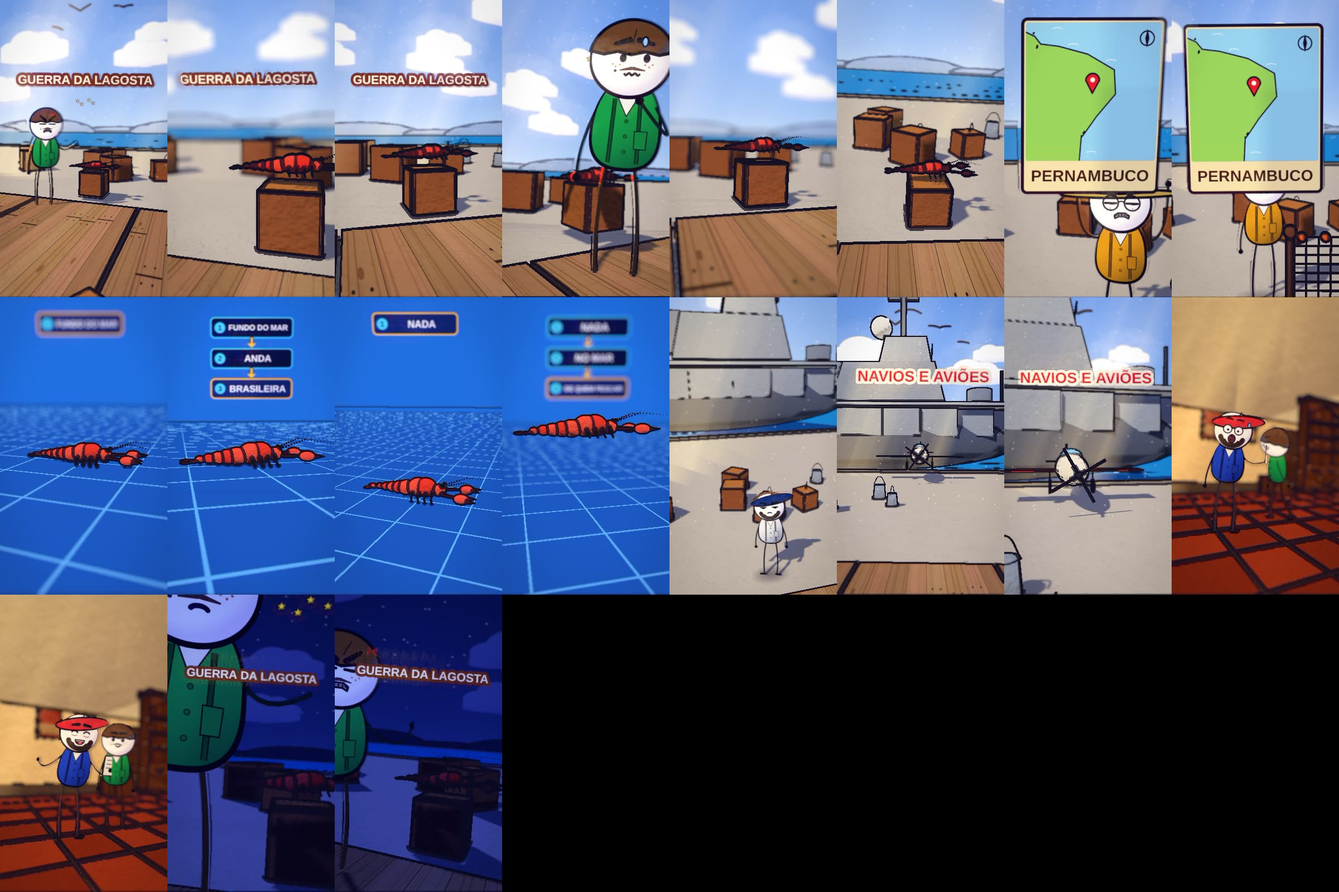
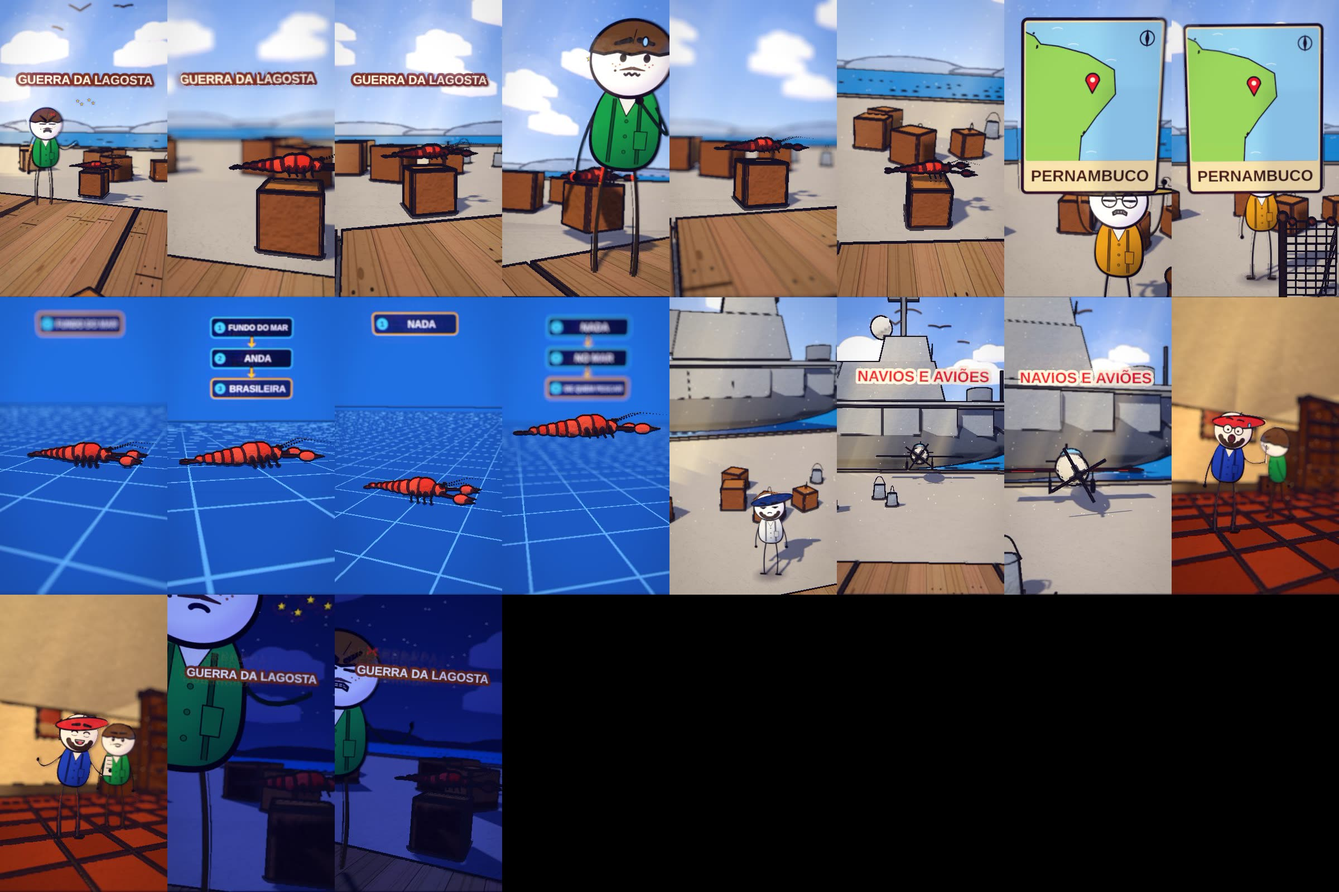
progresso da fila
Claude-Session: https://claude.ai/code/session_01HE8Dy3UcXXZZMLa7uzjNJD

Changed region(s): [[0.7812, 0.1839, 1.0, 0.3371]]

diff --git a/ferramenta-shorts/stories/lagosta1961/spec.js b/ferramenta-shorts/stories/lagosta1961/spec.js
@@ -17,7 +17,7 @@ const SPEC = {
   shots: [
     S('b0', A[0], Math.round(A[0] + (A[1] - 1 + 1 - (A[0])) * 0.36) - 1, X, "day", { h: 1.6, d0: 6.5, d1: 5.5, az0: -6, az1: 8, cx: 0.5, cz: -0.3, hero: { hero: 'any', frame: 'medium', minH: 0.07, main: 1 }, nocut: true, actors: [pp(X, "BRA", 0, 0.0, 1.3, "angry", { pose: 'argue' })], props: [{ asset: "crate", at: [X + 1.0, -0.4], s: 1.0, fixo: true }, { asset: "kit/lobster", at: [X + 1.0, -0.4], s: 0.58, fixo: true, y: DK + 0.95, drop: false }], fx: [{ k: 'stars', a: A[0] + 6, b: A[0] + 40, at: [X + 1.0, DK + 1.6, 0.1], s: 0.8 }, { k: 'birds', a: A[0], b: A[1] - 1, at: [X, DK + 4.5, -30], n: 4, dir: 1, off: 8 }, txt(X, WS(0, -2), A[1] - 1, "GUERRA DA LAGOSTA", '#fff6e0', '#7a3a1c', 4.5, { s: 1.5, up: 0.46 })] }), { ...S('b0_d', Math.round(A[0] + (A[1] - 1 + 1 - (A[0])) * 0.36), Math.round(A[0] + (A[1] - 1 + 1 - (A[0])) * 0.6) - 1, X, "day", { h: 1.6, d0: 6.5, d1: 5.5, az0: -6, az1: 8, cx: 0.5, cz: -0.3, hero: { hero: 'none', detalhe: true }, nocut: true, actors: [pp(X, "BRA", 0, 0.0, 1.3, "angry", { pose: 'stand' })], props: [{ asset: "crate", at: [X + 1.0, -0.4], s: 1.0, drop: false, fixo: true }, { asset: "kit/lobster", at: [X + 1.0, -0.4], s: 0.58, drop: false, fixo: true, y: DK + 0.95, drop: false }], fx: [{ k: 'stars', a: A[0] + 6, b: A[0] + 40, at: [X + 1.0, DK + 1.6, 0.1], s: 0.8 }, { k: 'birds', a: A[0], b: A[1] - 1, at: [X, DK + 4.5, -30], n: 4, dir: 1, off: 8 }, txt(X, WS(0, -2), A[1] - 1, "GUERRA DA LAGOSTA", '#fff6e0', '#7a3a1c', 4.5, { s: 1.5, up: 0.46 })] }), cam: [{ f: Math.round(A[0] + (A[1] - 1 + 1 - (A[0])) * 0.36), at: [X + 1.0, DK + 0.282, -0.4], d: 9.01, az: -14, el: 7, fov: 44 }, { f: Math.round(A[0] + (A[1] - 1 + 1 - (A[0])) * 0.6) - 1, at: [X + 1.0, DK + 0.282, -0.4], d: 8.0, az: -8, el: 6, fov: 44 }], nocut: true, vary: false, glide: true, glideN: 34 }, { ...S('b0_v', Math.round(A[0] + (A[1] - 1 + 1 - (A[0])) * 0.6), A[1] - 1, X, "day", { h: 1.6, d0: 6.5, d1: 5.5, az0: -6, az1: 8, cx: 0.5, cz: -0.3, hero: { hero: 'any', frame: 'medium', minH: 0.07, main: 1 }, nocut: true, actors: [pp(X, "BRA", 0, 0.0, 1.3, "angry", { pose: 'argue' })], props: [{ asset: "crate", at: [X + 1.0, -0.4], s: 1.0, drop: false, fixo: true }, { asset: "kit/lobster", at: [X + 1.0, -0.4], s: 0.58, drop: false, fixo: true, y: DK + 0.95, drop: false }], fx: [{ k: 'stars', a: A[0] + 6, b: A[0] + 40, at: [X + 1.0, DK + 1.6, 0.1], s: 0.8 }, { k: 'birds', a: A[0], b: A[1] - 1, at: [X, DK + 4.5, -30], n: 4, dir: 1, off: 8 }, txt(X, WS(0, -2), A[1] - 1, "GUERRA DA LAGOSTA", '#fff6e0', '#7a3a1c', 4.5, { s: 1.5, up: 0.46 })] }), glide: true, glideN: 34 },
     S('b1', A[1], Math.round(A[1] + (A[2] - 1 + 1 - (A[1])) * 0.36) - 1, X, "day", { h: 1.6, d0: 6.5, d1: 5.5, az0: -26, az1: -12, cx: 0.5, cz: -0.3, hero: { hero: 'any', frame: 'medium', minH: 0.07, main: 1 }, trans: 'cut', glide: true, glideN: 26, nocut: true, actors: [pp(X, "BRA", 0, 0.0, 1.3, "nervous", { pose: 'react' })], props: [{ asset: "crate", at: [X + 1.0, -0.4], s: 1.0, fixo: true }, { asset: "kit/lobster", at: [X + 1.0, -0.4], s: 0.58, fixo: true, y: DK + 0.95, drop: false }], fx: [{ k: 'stars', a: A[1] + 6, b: A[1] + 40, at: [X + 1.0, DK + 1.6, 0.1], s: 0.8 }] }), { ...S('b1_d', Math.round(A[1] + (A[2] - 1 + 1 - (A[1])) * 0.36), Math.round(A[1] + (A[2] - 1 + 1 - (A[1])) * 0.6) - 1, X, "day", { h: 1.6, d0: 6.5, d1: 5.5, az0: -26, az1: -12, cx: 0.5, cz: -0.3, hero: { hero: 'none', detalhe: true }, trans: 'cut', glide: true, glideN: 26, nocut: true, actors: [pp(X, "BRA", 0, 0.0, 1.3, "nervous", { pose: 'react' })], props: [{ asset: "crate", at: [X + 1.0, -0.4], s: 1.0, drop: false, fixo: true }, { asset: "kit/lobster", at: [X + 1.0, -0.4], s: 0.58, drop: false, fixo: true, y: DK + 0.95, drop: false }], fx: [{ k: 'stars', a: A[1] + 6, b: A[1] + 40, at: [X + 1.0, DK + 1.6, 0.1], s: 0.8 }] }), cam: [{ f: Math.round(A[1] + (A[2] - 1 + 1 - (A[1])) * 0.36), at: [X + 1.0, DK + 0.282, -0.4], d: 9.01, az: -14, el: 7, fov: 44 }, { f: Math.round(A[1] + (A[2] - 1 + 1 - (A[1])) * 0.6) - 1, at: [X + 1.0, DK + 0.282, -0.4], d: 8.0, az: -8, el: 6, fov: 44 }], nocut: true, vary: false, glide: true, glideN: 34 }, { ...S('b1_v', Math.round(A[1] + (A[2] - 1 + 1 - (A[1])) * 0.6), A[2] - 1, X, "day", { h: 1.6, d0: 6.5, d1: 5.5, az0: -26, az1: -12, cx: 0.5, cz: -0.3, hero: { hero: 'any', frame: 'medium', minH: 0.07, main: 1 }, trans: 'cut', glide: true, glideN: 26, nocut: true, actors: [pp(X, "BRA", 0, 0.0, 1.3, "nervous", { pose: 'react' })], props: [{ asset: "crate", at: [X + 1.0, -0.4], s: 1.0, drop: false, fixo: true }, { asset: "kit/lobster", at: [X + 1.0, -0.4], s: 0.58, drop: false, fixo: true, y: DK + 0.95, drop: false }], fx: [{ k: 'stars', a: A[1] + 6, b: A[1] + 40, at: [X + 1.0, DK + 1.6, 0.1], s: 0.8 }] }), glide: true, glideN: 34 },
-    { ...S('b2', A[2], A[3] - 1, X, "day", { h: 2.8, d0: 14.8, d1: 11.8, el: 5, fov: 46, cx: 0.0, cz: -5.6, hero: { hero: 'none', wide: true }, vary: false, nocut: true, trans: 'cut', actors: [pp(X, "PES", 0, 0.0, -0.4, "stern")], props: [{ asset: "boat", at: [X + 0.0, -27.0], s: 2.4, fixo: true }, { asset: "kit/fishing_net", at: [X + 1.8, 0.8], s: 1.2, drop: false }], fx: [{ k: 'map', a: WS(24, -2), b: Math.min(A[3] - 1, WS(24, -2) + 54), text: "PERNAMBUCO", geo: {"polys": [[7097, 522, 7096, 522, 7096, 521, -4214, 520, -4212, 518, -4210, 518, -4211, 520, -4211, 520, -4214, 522, 7097, 522], [-659, -42, -613, -29, -570, -64, -570, -85, -586, -135, -533, -118, -476, -147, -454, -169, -441, -146, -439, -117, -433, -62, -400, -44, -380, -54, -348, -64, -320, -75, -290, -84, -264, -72, -233, -76, -203, -100, -178, -140, -144, -62, -160, -8, -202, 46, -151, 49, -117, 79, -79, 35, -50, 20, -14, 29, 33, 50, 45, 65, 56, 78, 122, 86, 233, 115, 335, 173, 343, 263, 273, 348, 232, 408, 216, 430, 209, 546, 172, 650, 122, 722, 79, 727, 40, 737, -64, 790, -82, 807, -85, 856, -149, 978, -169, 996, -159, 961, -176, 980, -216, 1053, -235, 1031, -287, 990, -316, 983, -368, 955, -318, 902, -294, 882, -263, 866, -249, 821, -269, 794, -289, 758, -306, 728, -329, 701, -369, 699, -378, 677, -381, 648, -377, 607, -375, 552, -411, 514, -458, 447, -509, 417, -555, 395, -602, 372, -611, 342, -630, 307, -700, 339, -760, 345, -776, 299, -826, 311, -861, 271, -874, 245, -875, 229, -858, 188, -819, 141, -765, 133, -739, 36, -745, 14, -747, -25, -732, -26, -753, -37, -701, -60, -674, -70], [44, 90, 40, 93, 41, 89, 41, 87, 41, 85, 43, 83, 44, 83, 44, 85, 44, 86, 44, 90], [224, 412, 223, 413, 223, 411, 226, 408, 227, 405, 228, 407, 229, 408, 229, 409, 224, 412], [219, 424, 218, 426, 217, 426, 216, 425, 216, 423, 216, 422, 217, 422, 219, 422, 219, 424], [31, 38, 29, 40, 29, 41, 27, 40, 27, 39, 28, 39, 29, 37, 31, 37, 31, 38]], "hl": [1, 2, 3, 4, 5], "pin": [254.0, 260.0]} }, { k: "puff", a: A[2] + 70, b: A[2] + 96, at: [X + 0.9, DK + 0.12, 1.0], s: 0.75 }] }), nocut: true },
+    { ...S('b2', A[2], A[3] - 1, X, "day", { h: 2.8, d0: 15.0, d1: 13.0, el: 5, fov: 46, cx: 0.0, cz: -5.6, hero: { hero: 'none', wide: true }, vary: false, nocut: true, trans: 'cut', actors: [pp(X, "PES", 0, 0.0, -0.4, "stern")], props: [{ asset: "boat", at: [X + 0.0, -27.0], s: 2.4, fixo: true }, { asset: "kit/fishing_net", at: [X + 1.8, 0.8], s: 1.2, drop: false }], fx: [{ k: 'map', a: WS(24, -2), b: Math.min(A[3] - 1, WS(24, -2) + 54), text: "PERNAMBUCO", geo: {"polys": [[7097, 522, 7096, 522, 7096, 521, -4214, 520, -4212, 518, -4210, 518, -4211, 520, -4211, 520, -4214, 522, 7097, 522], [-659, -42, -613, -29, -570, -64, -570, -85, -586, -135, -533, -118, -476, -147, -454, -169, -441, -146, -439, -117, -433, -62, -400, -44, -380, -54, -348, -64, -320, -75, -290, -84, -264, -72, -233, -76, -203, -100, -178, -140, -144, -62, -160, -8, -202, 46, -151, 49, -117, 79, -79, 35, -50, 20, -14, 29, 33, 50, 45, 65, 56, 78, 122, 86, 233, 115, 335, 173, 343, 263, 273, 348, 232, 408, 216, 430, 209, 546, 172, 650, 122, 722, 79, 727, 40, 737, -64, 790, -82, 807, -85, 856, -149, 978, -169, 996, -159, 961, -176, 980, -216, 1053, -235, 1031, -287, 990, -316, 983, -368, 955, -318, 902, -294, 882, -263, 866, -249, 821, -269, 794, -289, 758, -306, 728, -329, 701, -369, 699, -378, 677, -381, 648, -377, 607, -375, 552, -411, 514, -458, 447, -509, 417, -555, 395, -602, 372, -611, 342, -630, 307, -700, 339, -760, 345, -776, 299, -826, 311, -861, 271, -874, 245, -875, 229, -858, 188, -819, 141, -765, 133, -739, 36, -745, 14, -747, -25, -732, -26, -753, -37, -701, -60, -674, -70], [44, 90, 40, 93, 41, 89, 41, 87, 41, 85, 43, 83, 44, 83, 44, 85, 44, 86, 44, 90], [224, 412, 223, 413, 223, 411, 226, 408, 227, 405, 228, 407, 229, 408, 229, 409, 224, 412], [219, 424, 218, 426, 217, 426, 216, 425, 216, 423, 216, 422, 217, 422, 219, 422, 219, 424], [31, 38, 29, 40, 29, 41, 27, 40, 27, 39, 28, 39, 29, 37, 31, 37, 31, 38]], "hl": [1, 2, 3, 4, 5], "pin": [254.0, 260.0]} }, { k: "puff", a: A[2] + 70, b: A[2] + 96, at: [X + 0.9, DK + 0.12, 1.0], s: 0.75 }] }), nocut: true },
     { ...S('b3', A[3], Math.round(A[3] + (A[4] - 1 + 1 - (A[3])) * 0.5) - 1, X_loc_estudio, "explica", { actors: [], props: [{ asset: "kit/lobster", at: [X_loc_estudio, -2.0], s: 1.47, y: (f) => DK, ry: 0.0, drop: false }], fx: [{ k: 'passos', a: (A[3]) + 8, b: A[4] - 1, itens: ["FUNDO DO MAR", "ANDA", "BRASILEIRA"], up: 0.58 }], hero: { hero: 'none', explica: true }, trans: 'dissolve' }), cam: [{ f: A[3], at: [X_loc_estudio + 0.0, DK + 0.615, -2.0], d: 14.2, az: 26, el: 10, fov: 44 }, { f: Math.round(A[3] + (A[4] - 1 + 1 - (A[3])) * 0.5) - 1, at: [X_loc_estudio + 0.0, DK + 0.615, -2.0], d: 12.78, az: 12, el: 8, fov: 44 }], nocut: true, vary: false, creep: 0 }, { ...S('b3_x', Math.round(A[3] + (A[4] - 1 + 1 - (A[3])) * 0.5), A[4] - 1, X_loc_estudio, "explica", { actors: [], props: [{ asset: "kit/lobster", at: [X_loc_estudio, -2.0], s: 1.47, y: (f) => DK, ry: 0.0, drop: false }], fx: [{ k: 'passos', a: (A[3]) + 8, b: A[4] - 1, itens: ["FUNDO DO MAR", "ANDA", "BRASILEIRA"], up: 0.58 }], hero: { hero: 'none', explica: true }, trans: 'cut' }), cam: [{ f: Math.round(A[3] + (A[4] - 1 + 1 - (A[3])) * 0.5), at: [X_loc_estudio + 0.0, DK + 0.615, -2.0], d: 12.5, az: -20, el: 6, fov: 44 }, { f: A[4] - 1, at: [X_loc_estudio + 0.0, DK + 0.615, -2.0], d: 11.36, az: -6, el: 5, fov: 44 }], nocut: true, vary: false, glide: true, glideN: 22, creep: 0 },
     { ...S('b4', A[4], Math.round(A[4] + (A[5] - 1 + 1 - (A[4])) * 0.5) - 1, X_loc_estudio, "explica", { actors: [], props: [{ asset: "kit/lobster", at: [X_loc_estudio, -2.0], s: 1.47, y: (f) => DK + 2.4 * Math.pow(Math.min(1, Math.max(0, (f - ((A[4]) + 14)) / 40)), 1.5) + (f > ((A[4]) + 14) + 40 ? 0.1 * Math.sin((f - ((A[4]) + 14)) / 9) : 0), ry: 0.0, drop: false }], fx: [{ k: 'passos', a: (A[4]) + 8, b: A[5] - 1, itens: ["NADA", "NO MAR", "DE QUEM PESCAR"], up: 0.58 }], hero: { hero: 'none', explica: true }, trans: 'dissolve' }), cam: [{ f: A[4], at: [X_loc_estudio + 0.0, DK + 2.115, -2.0], d: 14.2, az: 26, el: 10, fov: 44 }, { f: Math.round(A[4] + (A[5] - 1 + 1 - (A[4])) * 0.5) - 1, at: [X_loc_estudio + 0.0, DK + 2.115, -2.0], d: 12.78, az: 12, el: 8, fov: 44 }], nocut: true, vary: false, creep: 0 }, { ...S('b4_x', Math.round(A[4] + (A[5] - 1 + 1 - (A[4])) * 0.5), A[5] - 1, X_loc_estudio, "explica", { actors: [], props: [{ asset: "kit/lobster", at: [X_loc_estudio, -2.0], s: 1.47, y: (f) => DK + 2.4 * Math.pow(Math.min(1, Math.max(0, (f - ((A[4]) + 14)) / 40)), 1.5) + (f > ((A[4]) + 14) + 40 ? 0.1 * Math.sin((f - ((A[4]) + 14)) / 9) : 0), ry: 0.0, drop: false }], fx: [{ k: 'passos', a: (A[4]) + 8, b: A[5] - 1, itens: ["NADA", "NO MAR", "DE QUEM PESCAR"], up: 0.58 }], hero: { hero: 'none', explica: true }, trans: 'cut' }), cam: [{ f: Math.round(A[4] + (A[5] - 1 + 1 - (A[4])) * 0.5), at: [X_loc_estudio + 0.0, DK + 2.115, -2.0], d: 12.5, az: -20, el: 6, fov: 44 }, { f: A[5] - 1, at: [X_loc_estudio + 0.0, DK + 2.115, -2.0], d: 11.36, az: -6, el: 5, fov: 44 }], nocut: true, vary: false, glide: true, glideN: 22, creep: 0 },
     { ...S('b5', A[5], A[6] - 1, X, "day", { h: 4.0, d0: 21.0, d1: 20.0, el: 11, fov: 46, az0: -38, az1: 32, cx: 0.0, cz: -2.0, hero: { hero: 'none', wide: true }, vary: false, nocut: true, trans: 'cut', actors: [pp(X, "MFR", 0, 0.0, -0.4, "stern")], props: [{ asset: "kit/navio_destroier", at: [X + 0.0, -27.0], s: 8.27, fixo: true, drop: false }], fx: [{ k: 'birds', a: A[5], b: A[6] - 1, at: [X, DK + 7.5, -30], n: 6, dir: 1, off: 15 }] }), nocut: true },

diff --git a/ferramenta-shorts/web/story.js b/ferramenta-shorts/web/story.js
@@ -38,7 +38,7 @@ const SPEC = {
   shots: [
     S('b0', A[0], Math.round(A[0] + (A[1] - 1 + 1 - (A[0])) * 0.36) - 1, X, "day", { h: 1.6, d0: 6.5, d1: 5.5, az0: -6, az1: 8, cx: 0.5, cz: -0.3, hero: { hero: 'any', frame: 'medium', minH: 0.07, main: 1 }, nocut: true, actors: [pp(X, "BRA", 0, 0.0, 1.3, "angry", { pose: 'argue' })], props: [{ asset: "crate", at: [X + 1.0, -0.4], s: 1.0, fixo: true }, { asset: "kit/lobster", at: [X + 1.0, -0.4], s: 0.58, fixo: true, y: DK + 0.95, drop: false }], fx: [{ k: 'stars', a: A[0] + 6, b: A[0] + 40, at: [X + 1.0, DK + 1.6, 0.1], s: 0.8 }, { k: 'birds', a: A[0], b: A[1] - 1, at: [X, DK + 4.5, -30], n: 4, dir: 1, off: 8 }, txt(X, WS(0, -2), A[1] - 1, "GUERRA DA LAGOSTA", '#fff6e0', '#7a3a1c', 4.5, { s: 1.5, up: 0.46 })] }), { ...S('b0_d', Math.round(A[0] + (A[1] - 1 + 1 - (A[0])) * 0.36), Math.round(A[0] + (A[1] - 1 + 1 - (A[0])) * 0.6) - 1, X, "day", { h: 1.6, d0: 6.5, d1: 5.5, az0: -6, az1: 8, cx: 0.5, cz: -0.3, hero: { hero: 'none', detalhe: true }, nocut: true, actors: [pp(X, "BRA", 0, 0.0, 1.3, "angry", { pose: 'stand' })], props: [{ asset: "crate", at: [X + 1.0, -0.4], s: 1.0, drop: false, fixo: true }, { asset: "kit/lobster", at: [X + 1.0, -0.4], s: 0.58, drop: false, fixo: true, y: DK + 0.95, drop: false }], fx: [{ k: 'stars', a: A[0] + 6, b: A[0] + 40, at: [X + 1.0, DK + 1.6, 0.1], s: 0.8 }, { k: 'birds', a: A[0], b: A[1] - 1, at: [X, DK + 4.5, -30], n: 4, dir: 1, off: 8 }, txt(X, WS(0, -2), A[1] - 1, "GUERRA DA LAGOSTA", '#fff6e0', '#7a3a1c', 4.5, { s: 1.5, up: 0.46 })] }), cam: [{ f: Math.round(A[0] + (A[1] - 1 + 1 - (A[0])) * 0.36), at: [X + 1.0, DK + 0.282, -0.4], d: 9.01, az: -14, el: 7, fov: 44 }, { f: Math.round(A[0] + (A[1] - 1 + 1 - (A[0])) * 0.6) - 1, at: [X + 1.0, DK + 0.282, -0.4], d: 8.0, az: -8, el: 6, fov: 44 }], nocut: true, vary: false, glide: true, glideN: 34 }, { ...S('b0_v', Math.round(A[0] + (A[1] - 1 + 1 - (A[0])) * 0.6), A[1] - 1, X, "day", { h: 1.6, d0: 6.5, d1: 5.5, az0: -6, az1: 8, cx: 0.5, cz: -0.3, hero: { hero: 'any', frame: 'medium', minH: 0.07, main: 1 }, nocut: true, actors: [pp(X, "BRA", 0, 0.0, 1.3, "angry", { pose: 'argue' })], props: [{ asset: "crate", at: [X + 1.0, -0.4], s: 1.0, drop: false, fixo: true }, { asset: "kit/lobster", at: [X + 1.0, -0.4], s: 0.58, drop: false, fixo: true, y: DK + 0.95, drop: false }], fx: [{ k: 'stars', a: A[0] + 6, b: A[0] + 40, at: [X + 1.0, DK + 1.6, 0.1], s: 0.8 }, { k: 'birds', a: A[0], b: A[1] - 1, at: [X, DK + 4.5, -30], n: 4, dir: 1, off: 8 }, txt(X, WS(0, -2), A[1] - 1, "GUERRA DA LAGOSTA", '#fff6e0', '#7a3a1c', 4.5, { s: 1.5, up: 0.46 })] }), glide: true, glideN: 34 },
     S('b1', A[1], Math.round(A[1] + (A[2] - 1 + 1 - (A[1])) * 0.36) - 1, X, "day", { h: 1.6, d0: 6.5, d1: 5.5, az0: -26, az1: -12, cx: 0.5, cz: -0.3, hero: { hero: 'any', frame: 'medium', minH: 0.07, main: 1 }, trans: 'cut', glide: true, glideN: 26, nocut: true, actors: [pp(X, "BRA", 0, 0.0, 1.3, "nervous", { pose: 'react' })], props: [{ asset: "crate", at: [X + 1.0, -0.4], s: 1.0, fixo: true }, { asset: "kit/lobster", at: [X + 1.0, -0.4], s: 0.58, fixo: true, y: DK + 0.95, drop: false }], fx: [{ k: 'stars', a: A[1] + 6, b: A[1] + 40, at: [X + 1.0, DK + 1.6, 0.1], s: 0.8 }] }), { ...S('b1_d', Math.round(A[1] + (A[2] - 1 + 1 - (A[1])) * 0.36), Math.round(A[1] + (A[2] - 1 + 1 - (A[1])) * 0.6) - 1, X, "day", { h: 1.6, d0: 6.5, d1: 5.5, az0: -26, az1: -12, cx: 0.5, cz: -0.3, hero: { hero: 'none', detalhe: true }, trans: 'cut', glide: true, glideN: 26, nocut: true, actors: [pp(X, "BRA", 0, 0.0, 1.3, "nervous", { pose: 'react' })], props: [{ asset: "crate", at: [X + 1.0, -0.4], s: 1.0, drop: false, fixo: true }, { asset: "kit/lobster", at: [X + 1.0, -0.4], s: 0.58, drop: false, fixo: true, y: DK + 0.95, drop: false }], fx: [{ k: 'stars', a: A[1] + 6, b: A[1] + 40, at: [X + 1.0, DK + 1.6, 0.1], s: 0.8 }] }), cam: [{ f: Math.round(A[1] + (A[2] - 1 + 1 - (A[1])) * 0.36), at: [X + 1.0, DK + 0.282, -0.4], d: 9.01, az: -14, el: 7, fov: 44 }, { f: Math.round(A[1] + (A[2] - 1 + 1 - (A[1])) * 0.6) - 1, at: [X + 1.0, DK + 0.282, -0.4], d: 8.0, az: -8, el: 6, fov: 44 }], nocut: true, vary: false, glide: true, glideN: 34 }, { ...S('b1_v', Math.round(A[1] + (A[2] - 1 + 1 - (A[1])) * 0.6), A[2] - 1, X, "day", { h: 1.6, d0: 6.5, d1: 5.5, az0: -26, az1: -12, cx: 0.5, cz: -0.3, hero: { hero: 'any', frame: 'medium', minH: 0.07, main: 1 }, trans: 'cut', glide: true, glideN: 26, nocut: true, actors: [pp(X, "BRA", 0, 0.0, 1.3, "nervous", { pose: 'react' })], props: [{ asset: "crate", at: [X + 1.0, -0.4], s: 1.0, drop: false, fixo: true }, { asset: "kit/lobster", at: [X + 1.0, -0.4], s: 0.58, drop: false, fixo: true, y: DK + 0.95, drop: false }], fx: [{ k: 'stars', a: A[1] + 6, b: A[1] + 40, at: [X + 1.0, DK + 1.6, 0.1], s: 0.8 }] }), glide: true, glideN: 34 },
-    { ...S('b2', A[2], A[3] - 1, X, "day", { h: 2.8, d0: 14.8, d1: 11.8, el: 5, fov: 46, cx: 0.0, cz: -5.6, hero: { hero: 'none', wide: true }, vary: false, nocut: true, trans: 'cut', actors: [pp(X, "PES", 0, 0.0, -0.4, "stern")], props: [{ asset: "boat", at: [X + 0.0, -27.0], s: 2.4, fixo: true }, { asset: "kit/fishing_net", at: [X + 1.8, 0.8], s: 1.2, drop: false }], fx: [{ k: 'map', a: WS(24, -2), b: Math.min(A[3] - 1, WS(24, -2) + 54), text: "PERNAMBUCO", geo: {"polys": [[7097, 522, 7096, 522, 7096, 521, -4214, 520, -4212, 518, -4210, 518, -4211, 520, -4211, 520, -4214, 522, 7097, 522], [-659, -42, -613, -29, -570, -64, -570, -85, -586, -135, -533, -118, -476, -147, -454, -169, -441, -146, -439, -117, -433, -62, -400, -44, -380, -54, -348, -64, -320, -75, -290, -84, -264, -72, -233, -76, -203, -100, -178, -140, -144, -62, -160, -8, -202, 46, -151, 49, -117, 79, -79, 35, -50, 20, -14, 29, 33, 50, 45, 65, 56, 78, 122, 86, 233, 115, 335, 173, 343, 263, 273, 348, 232, 408, 216, 430, 209, 546, 172, 650, 122, 722, 79, 727, 40, 737, -64, 790, -82, 807, -85, 856, -149, 978, -169, 996, -159, 961, -176, 980, -216, 1053, -235, 1031, -287, 990, -316, 983, -368, 955, -318, 902, -294, 882, -263, 866, -249, 821, -269, 794, -289, 758, -306, 728, -329, 701, -369, 699, -378, 677, -381, 648, -377, 607, -375, 552, -411, 514, -458, 447, -509, 417, -555, 395, -602, 372, -611, 342, -630, 307, -700, 339, -760, 345, -776, 299, -826, 311, -861, 271, -874, 245, -875, 229, -858, 188, -819, 141, -765, 133, -739, 36, -745, 14, -747, -25, -732, -26, -753, -37, -701, -60, -674, -70], [44, 90, 40, 93, 41, 89, 41, 87, 41, 85, 43, 83, 44, 83, 44, 85, 44, 86, 44, 90], [224, 412, 223, 413, 223, 411, 226, 408, 227, 405, 228, 407, 229, 408, 229, 409, 224, 412], [219, 424, 218, 426, 217, 426, 216, 425, 216, 423, 216, 422, 217, 422, 219, 422, 219, 424], [31, 38, 29, 40, 29, 41, 27, 40, 27, 39, 28, 39, 29, 37, 31, 37, 31, 38]], "hl": [1, 2, 3, 4, 5], "pin": [254.0, 260.0]} }, { k: "puff", a: A[2] + 70, b: A[2] + 96, at: [X + 0.9, DK + 0.12, 1.0], s: 0.75 }] }), nocut: true },
+    { ...S('b2', A[2], A[3] - 1, X, "day", { h: 2.8, d0: 15.0, d1: 13.0, el: 5, fov: 46, cx: 0.0, cz: -5.6, hero: { hero: 'none', wide: true }, vary: false, nocut: true, trans: 'cut', actors: [pp(X, "PES", 0, 0.0, -0.4, "stern")], props: [{ asset: "boat", at: [X + 0.0, -27.0], s: 2.4, fixo: true }, { asset: "kit/fishing_net", at: [X + 1.8, 0.8], s: 1.2, drop: false }], fx: [{ k: 'map', a: WS(24, -2), b: Math.min(A[3] - 1, WS(24, -2) + 54), text: "PERNAMBUCO", geo: {"polys": [[7097, 522, 7096, 522, 7096, 521, -4214, 520, -4212, 518, -4210, 518, -4211, 520, -4211, 520, -4214, 522, 7097, 522], [-659, -42, -613, -29, -570, -64, -570, -85, -586, -135, -533, -118, -476, -147, -454, -169, -441, -146, -439, -117, -433, -62, -400, -44, -380, -54, -348, -64, -320, -75, -290, -84, -264, -72, -233, -76, -203, -100, -178, -140, -144, -62, -160, -8, -202, 46, -151, 49, -117, 79, -79, 35, -50, 20, -14, 29, 33, 50, 45, 65, 56, 78, 122, 86, 233, 115, 335, 173, 343, 263, 273, 348, 232, 408, 216, 430, 209, 546, 172, 650, 122, 722, 79, 727, 40, 737, -64, 790, -82, 807, -85, 856, -149, 978, -169, 996, -159, 961, -176, 980, -216, 1053, -235, 1031, -287, 990, -316, 983, -368, 955, -318, 902, -294, 882, -263, 866, -249, 821, -269, 794, -289, 758, -306, 728, -329, 701, -369, 699, -378, 677, -381, 648, -377, 607, -375, 552, -411, 514, -458, 447, -509, 417, -555, 395, -602, 372, -611, 342, -630, 307, -700, 339, -760, 345, -776, 299, -826, 311, -861, 271, -874, 245, -875, 229, -858, 188, -819, 141, -765, 133, -739, 36, -745, 14, -747, -25, -732, -26, -753, -37, -701, -60, -674, -70], [44, 90, 40, 93, 41, 89, 41, 87, 41, 85, 43, 83, 44, 83, 44, 85, 44, 86, 44, 90], [224, 412, 223, 413, 223, 411, 226, 408, 227, 405, 228, 407, 229, 408, 229, 409, 224, 412], [219, 424, 218, 426, 217, 426, 216, 425, 216, 423, 216, 422, 217, 422, 219, 422, 219, 424], [31, 38, 29, 40, 29, 41, 27, 40, 27, 39, 28, 39, 29, 37, 31, 37, 31, 38]], "hl": [1, 2, 3, 4, 5], "pin": [254.0, 260.0]} }, { k: "puff", a: A[2] + 70, b: A[2] + 96, at: [X + 0.9, DK + 0.12, 1.0], s: 0.75 }] }), nocut: true },
     { ...S('b3', A[3], Math.round(A[3] + (A[4] - 1 + 1 - (A[3])) * 0.5) - 1, X_loc_estudio, "explica", { actors: [], props: [{ asset: "kit/lobster", at: [X_loc_estudio, -2.0], s: 1.47, y: (f) => DK, ry: 0.0, drop: false }], fx: [{ k: 'passos', a: (A[3]) + 8, b: A[4] - 1, itens: ["FUNDO DO MAR", "ANDA", "BRASILEIRA"], up: 0.58 }], hero: { hero: 'none', explica: true }, trans: 'dissolve' }), cam: [{ f: A[3], at: [X_loc_estudio + 0.0, DK + 0.615, -2.0], d: 14.2, az: 26, el: 10, fov: 44 }, { f: Math.round(A[3] + (A[4] - 1 + 1 - (A[3])) * 0.5) - 1, at: [X_loc_estudio + 0.0, DK + 0.615, -2.0], d: 12.78, az: 12, el: 8, fov: 44 }], nocut: true, vary: false, creep: 0 }, { ...S('b3_x', Math.round(A[3] + (A[4] - 1 + 1 - (A[3])) * 0.5), A[4] - 1, X_loc_estudio, "explica", { actors: [], props: [{ asset: "kit/lobster", at: [X_loc_estudio, -2.0], s: 1.47, y: (f) => DK, ry: 0.0, drop: false }], fx: [{ k: 'passos', a: (A[3]) + 8, b: A[4] - 1, itens: ["FUNDO DO MAR", "ANDA", "BRASILEIRA"], up: 0.58 }], hero: { hero: 'none', explica: true }, trans: 'cut' }), cam: [{ f: Math.round(A[3] + (A[4] - 1 + 1 - (A[3])) * 0.5), at: [X_loc_estudio + 0.0, DK + 0.615, -2.0], d: 12.5, az: -20, el: 6, fov: 44 }, { f: A[4] - 1, at: [X_loc_estudio + 0.0, DK + 0.615, -2.0], d: 11.36, az: -6, el: 5, fov: 44 }], nocut: true, vary: false, glide: true, glideN: 22, creep: 0 },
     { ...S('b4', A[4], Math.round(A[4] + (A[5] - 1 + 1 - (A[4])) * 0.5) - 1, X_loc_estudio, "explica", { actors: [], props: [{ asset: "kit/lobster", at: [X_loc_estudio, -2.0], s: 1.47, y: (f) => DK + 2.4 * Math.pow(Math.min(1, Math.max(0, (f - ((A[4]) + 14)) / 40)), 1.5) + (f > ((A[4]) + 14) + 40 ? 0.1 * Math.sin((f - ((A[4]) + 14)) / 9) : 0), ry: 0.0, drop: false }], fx: [{ k: 'passos', a: (A[4]) + 8, b: A[5] - 1, itens: ["NADA", "NO MAR", "DE QUEM PESCAR"], up: 0.58 }], hero: { hero: 'none', explica: true }, trans: 'dissolve' }), cam: [{ f: A[4], at: [X_loc_estudio + 0.0, DK + 2.115, -2.0], d: 14.2, az: 26, el: 10, fov: 44 }, { f: Math.round(A[4] + (A[5] - 1 + 1 - (A[4])) * 0.5) - 1, at: [X_loc_estudio + 0.0, DK + 2.115, -2.0], d: 12.78, az: 12, el: 8, fov: 44 }], nocut: true, vary: false, creep: 0 }, { ...S('b4_x', Math.round(A[4] + (A[5] - 1 + 1 - (A[4])) * 0.5), A[5] - 1, X_loc_estudio, "explica", { actors: [], props: [{ asset: "kit/lobster", at: [X_loc_estudio, -2.0], s: 1.47, y: (f) => DK + 2.4 * Math.pow(Math.min(1, Math.max(0, (f - ((A[4]) + 14)) / 40)), 1.5) + (f > ((A[4]) + 14) + 40 ? 0.1 * Math.sin((f - ((A[4]) + 14)) / 9) : 0), ry: 0.0, drop: false }], fx: [{ k: 'passos', a: (A[4]) + 8, b: A[5] - 1, itens: ["NADA", "NO MAR", "DE QUEM PESCAR"], up: 0.58 }], hero: { hero: 'none', explica: true }, trans: 'cut' }), cam: [{ f: Math.round(A[4] + (A[5] - 1 + 1 - (A[4])) * 0.5), at: [X_loc_estudio + 0.0, DK + 2.115, -2.0], d: 12.5, az: -20, el: 6, fov: 44 }, { f: A[5] - 1, at: [X_loc_estudio + 0.0, DK + 2.115, -2.0], d: 11.36, az: -6, el: 5, fov: 44 }], nocut: true, vary: false, glide: true, glideN: 22, creep: 0 },
     { ...S('b5', A[5], A[6] - 1, X, "day", { h: 4.0, d0: 21.0, d1: 20.0, el: 11, fov: 46, az0: -38, az1: 32, cx: 0.0, cz: -2.0, hero: { hero: 'none', wide: true }, vary: false, nocut: true, trans: 'cut', actors: [pp(X, "MFR", 0, 0.0, -0.4, "stern")], props: [{ asset: "kit/navio_destroier", at: [X + 0.0, -27.0], s: 8.27, fixo: true, drop: false }], fx: [{ k: 'birds', a: A[5], b: A[6] - 1, at: [X, DK + 7.5, -30], n: 6, dir: 1, off: 15 }] }), nocut: true },

diff --git a/ferramenta-shorts/stories/lagosta1961/autocorrecoes.md b/ferramenta-shorts/stories/lagosta1961/autocorrecoes.md
@@ -200,3 +200,11 @@
 - b1: quadro_manual (o roteiro fixou o quadro), objeto "kit/lobster" saiu com 11% da altura da tela, a ficha de cena planejou 32% -> fica para o olho
 - b2: objeto "boat" saiu com 8% da altura da tela, a ficha de cena planejou 30% -> camera em plano aberto mirando o objeto (cx 7.0, cz -11.2), sem multidao na frente
 - b8: quadro_manual (o roteiro fixou o quadro), objeto "kit/lobster" saiu com 11% da altura da tela, a ficha de cena planejou 32% -> fica para o olho
+
+## 25/11 18:06 autocorrecao de visibilidade
+- b8: quadro_manual (o roteiro fixou o quadro), personagem CORTADO na borda do quadro (boneco grande saindo da tela) -> fica para o olho
+- b2: objeto citado "boat" nao aparece na tela (escondido, fora do quadro ou pequeno demais) -> camera mais perto do objeto, 1 personagem de lado
+- b0: quadro_manual (o roteiro fixou o quadro), objeto "kit/lobster" saiu com 10% da altura da tela, a ficha de cena planejou 32% -> fica para o olho
+- b1: quadro_manual (o roteiro fixou o quadro), objeto "kit/lobster" saiu com 11% da altura da tela, a ficha de cena planejou 32% -> fica para o olho
+- b2: ja corrigida 3 vezes, objeto "boat" saiu com 8% da altura da tela, a ficha de cena planejou 30% -> fica para o olho
+- b8: quadro_manual (o roteiro fixou o quadro), objeto "kit/lobster" saiu com 11% da altura da tela, a ficha de cena planejou 32% -> fica para o olho

diff --git a/ferramenta-shorts/stories/lagosta1961/cronograma.md b/ferramenta-shorts/stories/lagosta1961/cronograma.md
@@ -1,6 +1,6 @@
 # CRONOGRAMA - Guerras Inusitadas EP 11 - A Guerra da Lagosta
 
-Gerado em 25/11 18:06 | 9 cenas | metricas: acoes_encenadas 100%, acoes_chave_com_efeito 100%, explicacoes_cobertas 100%, cenario_e_epoca_ok 100%
+Gerado em 25/11 18:07 | 9 cenas | metricas: acoes_encenadas 100%, acoes_chave_com_efeito 100%, explicacoes_cobertas 100%, cenario_e_epoca_ok 100%
 
 ## 1. Plano de cenas (o que cada frase vai mostrar)
 
